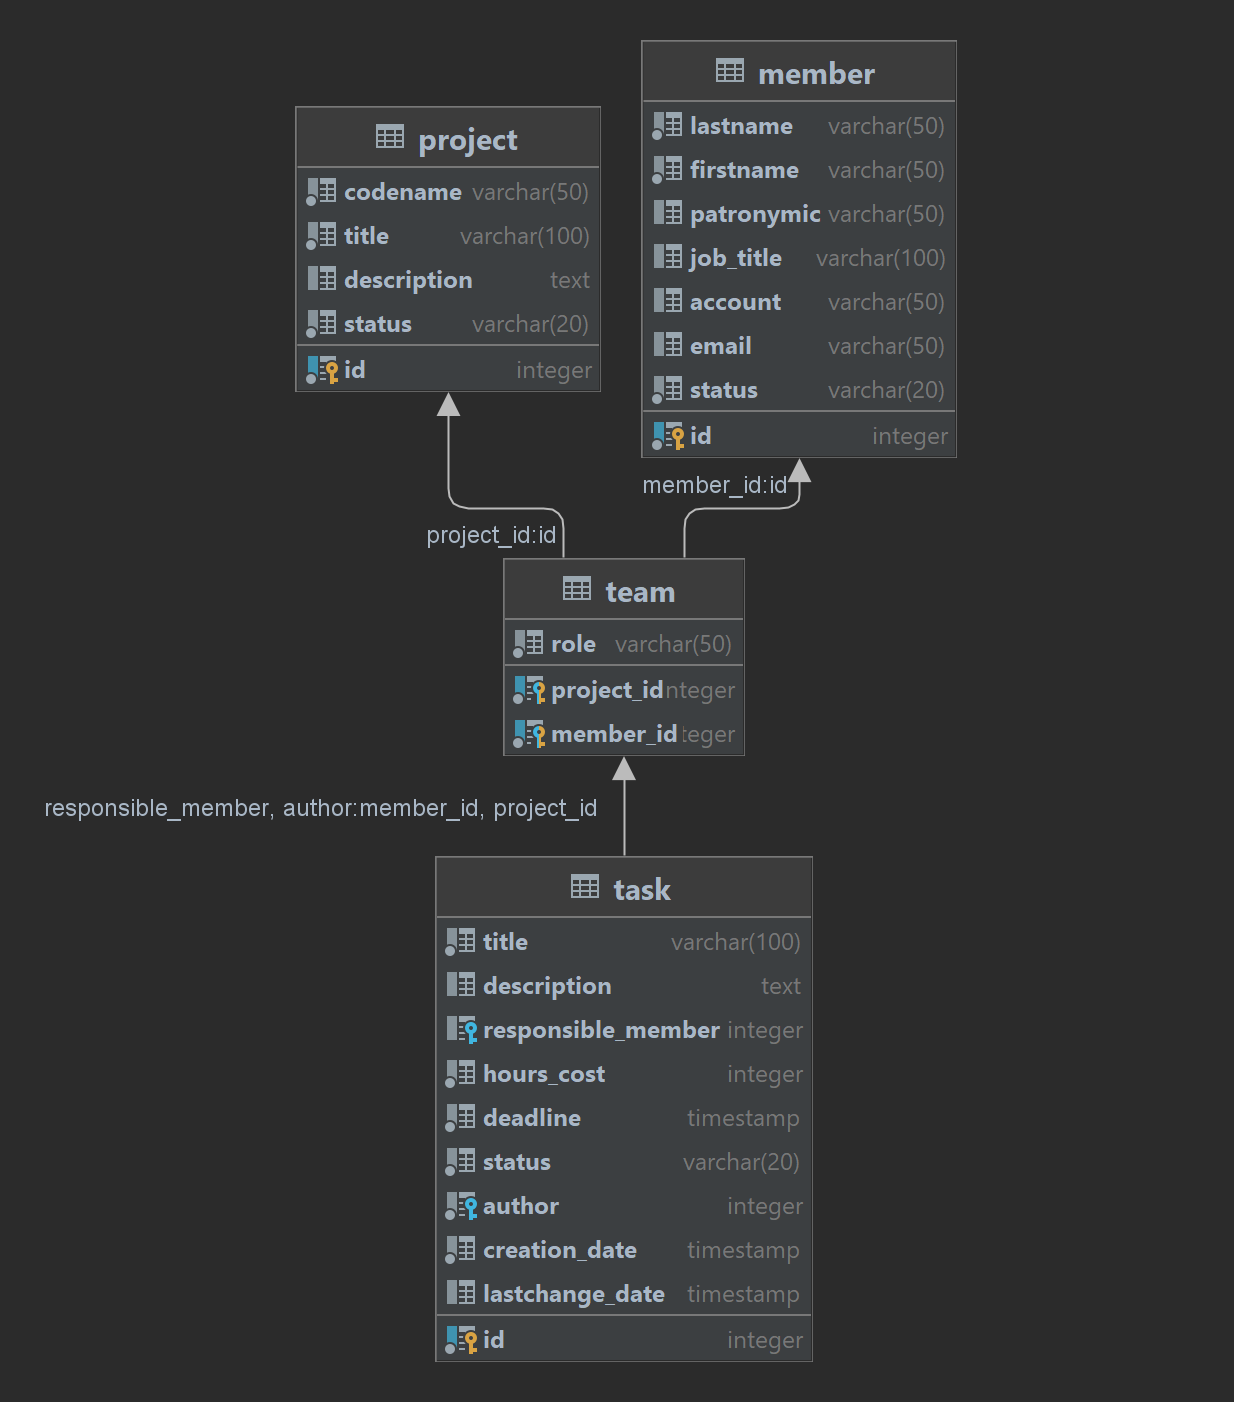
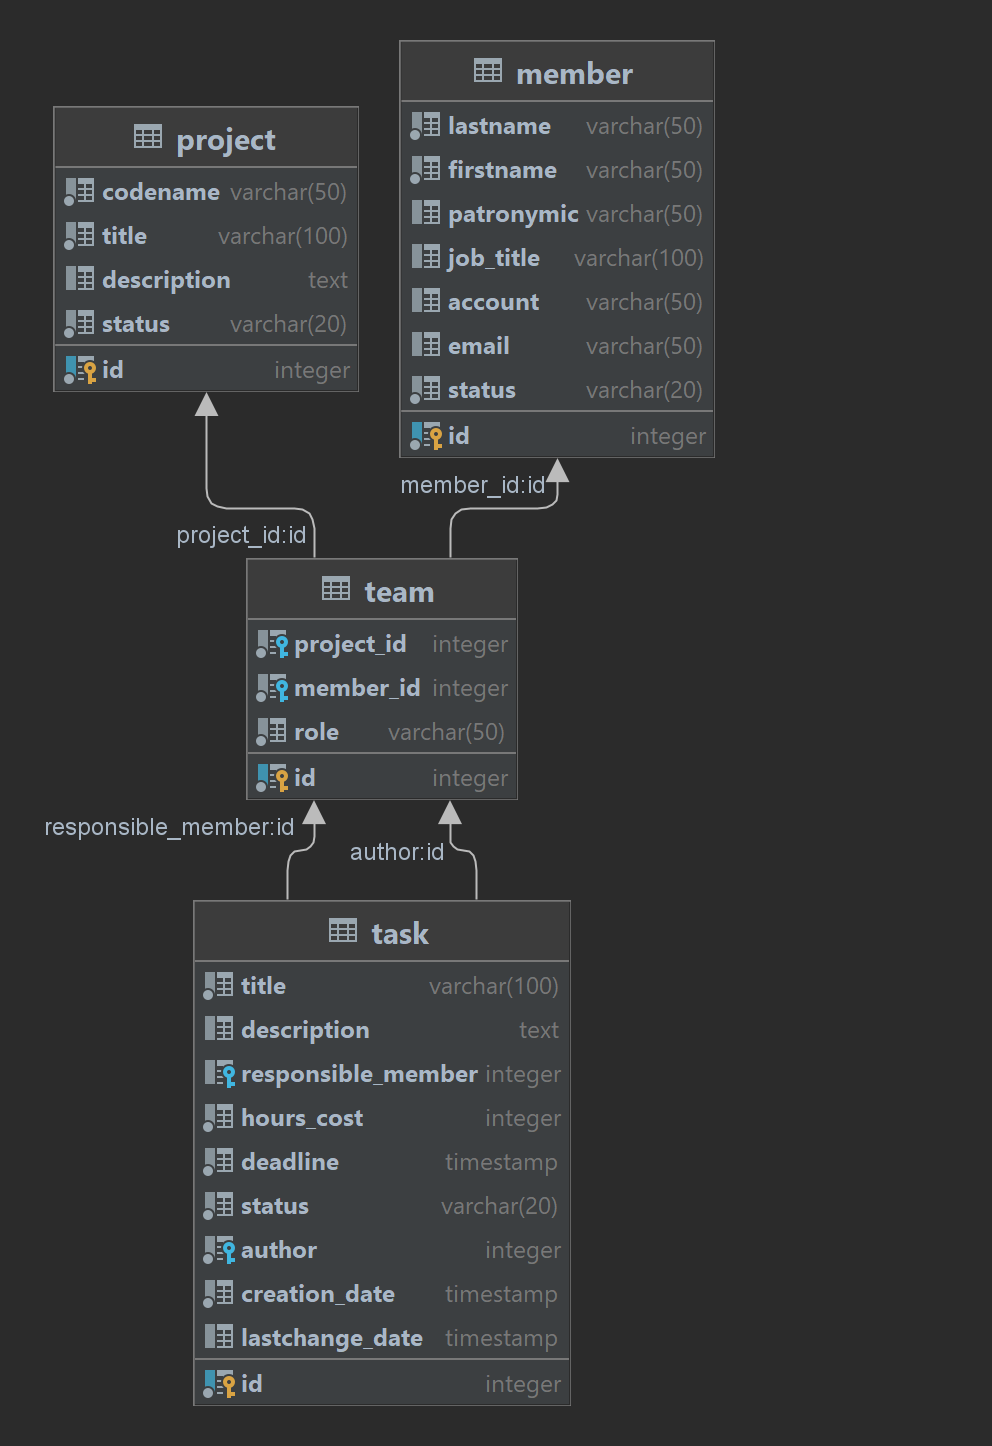
fix db model

Changed region(s): [[0.0312, 0.0307, 0.7812, 0.9815], [0.1875, 0.276, 0.2188, 0.3067]]

diff --git a/business/repositories/src/main/resources/shema.md b/business/repositories/src/main/resources/shema.md
@@ -1,6 +1,6 @@
 ## 1. ER-модель
 
-<img height="981" src="ER_model.png" width="813"/>
+<img height="1012" src="ER_model.png" width="694"/>
 
 ## 2. Описание БД
 ### Table: member
@@ -85,7 +85,10 @@ check (lastchange_date >= creation_date),`
 
 ### Table: team
 **Группа сотрудников, объединенных общим проектом**
-
+* `id         serial
+        constraint team_pk
+            primary key`
+  * Уникальный идентификатор участника команды
 * `project_id integer     not null
     constraint team_project_id_fk
         references project,`
@@ -100,5 +103,3 @@ check (lastchange_date >= creation_date),`
                ((ARRAY ['TEAMLEAD'::character varying, 'ANALYST'::character varying, 'DEVELOPER'::character varying, 'QA'::character varying])::text[])),
 `
   * Роль сотрудника. В разных командах один сотрудник может принимать различные роли, но только одну роль внутри проекта. Список ролей фиксированный: TEAMLEAD, ANALYST, DEVELOPER, QA.
-* `constraint team_pk
-    primary key (member_id, project_id)`
